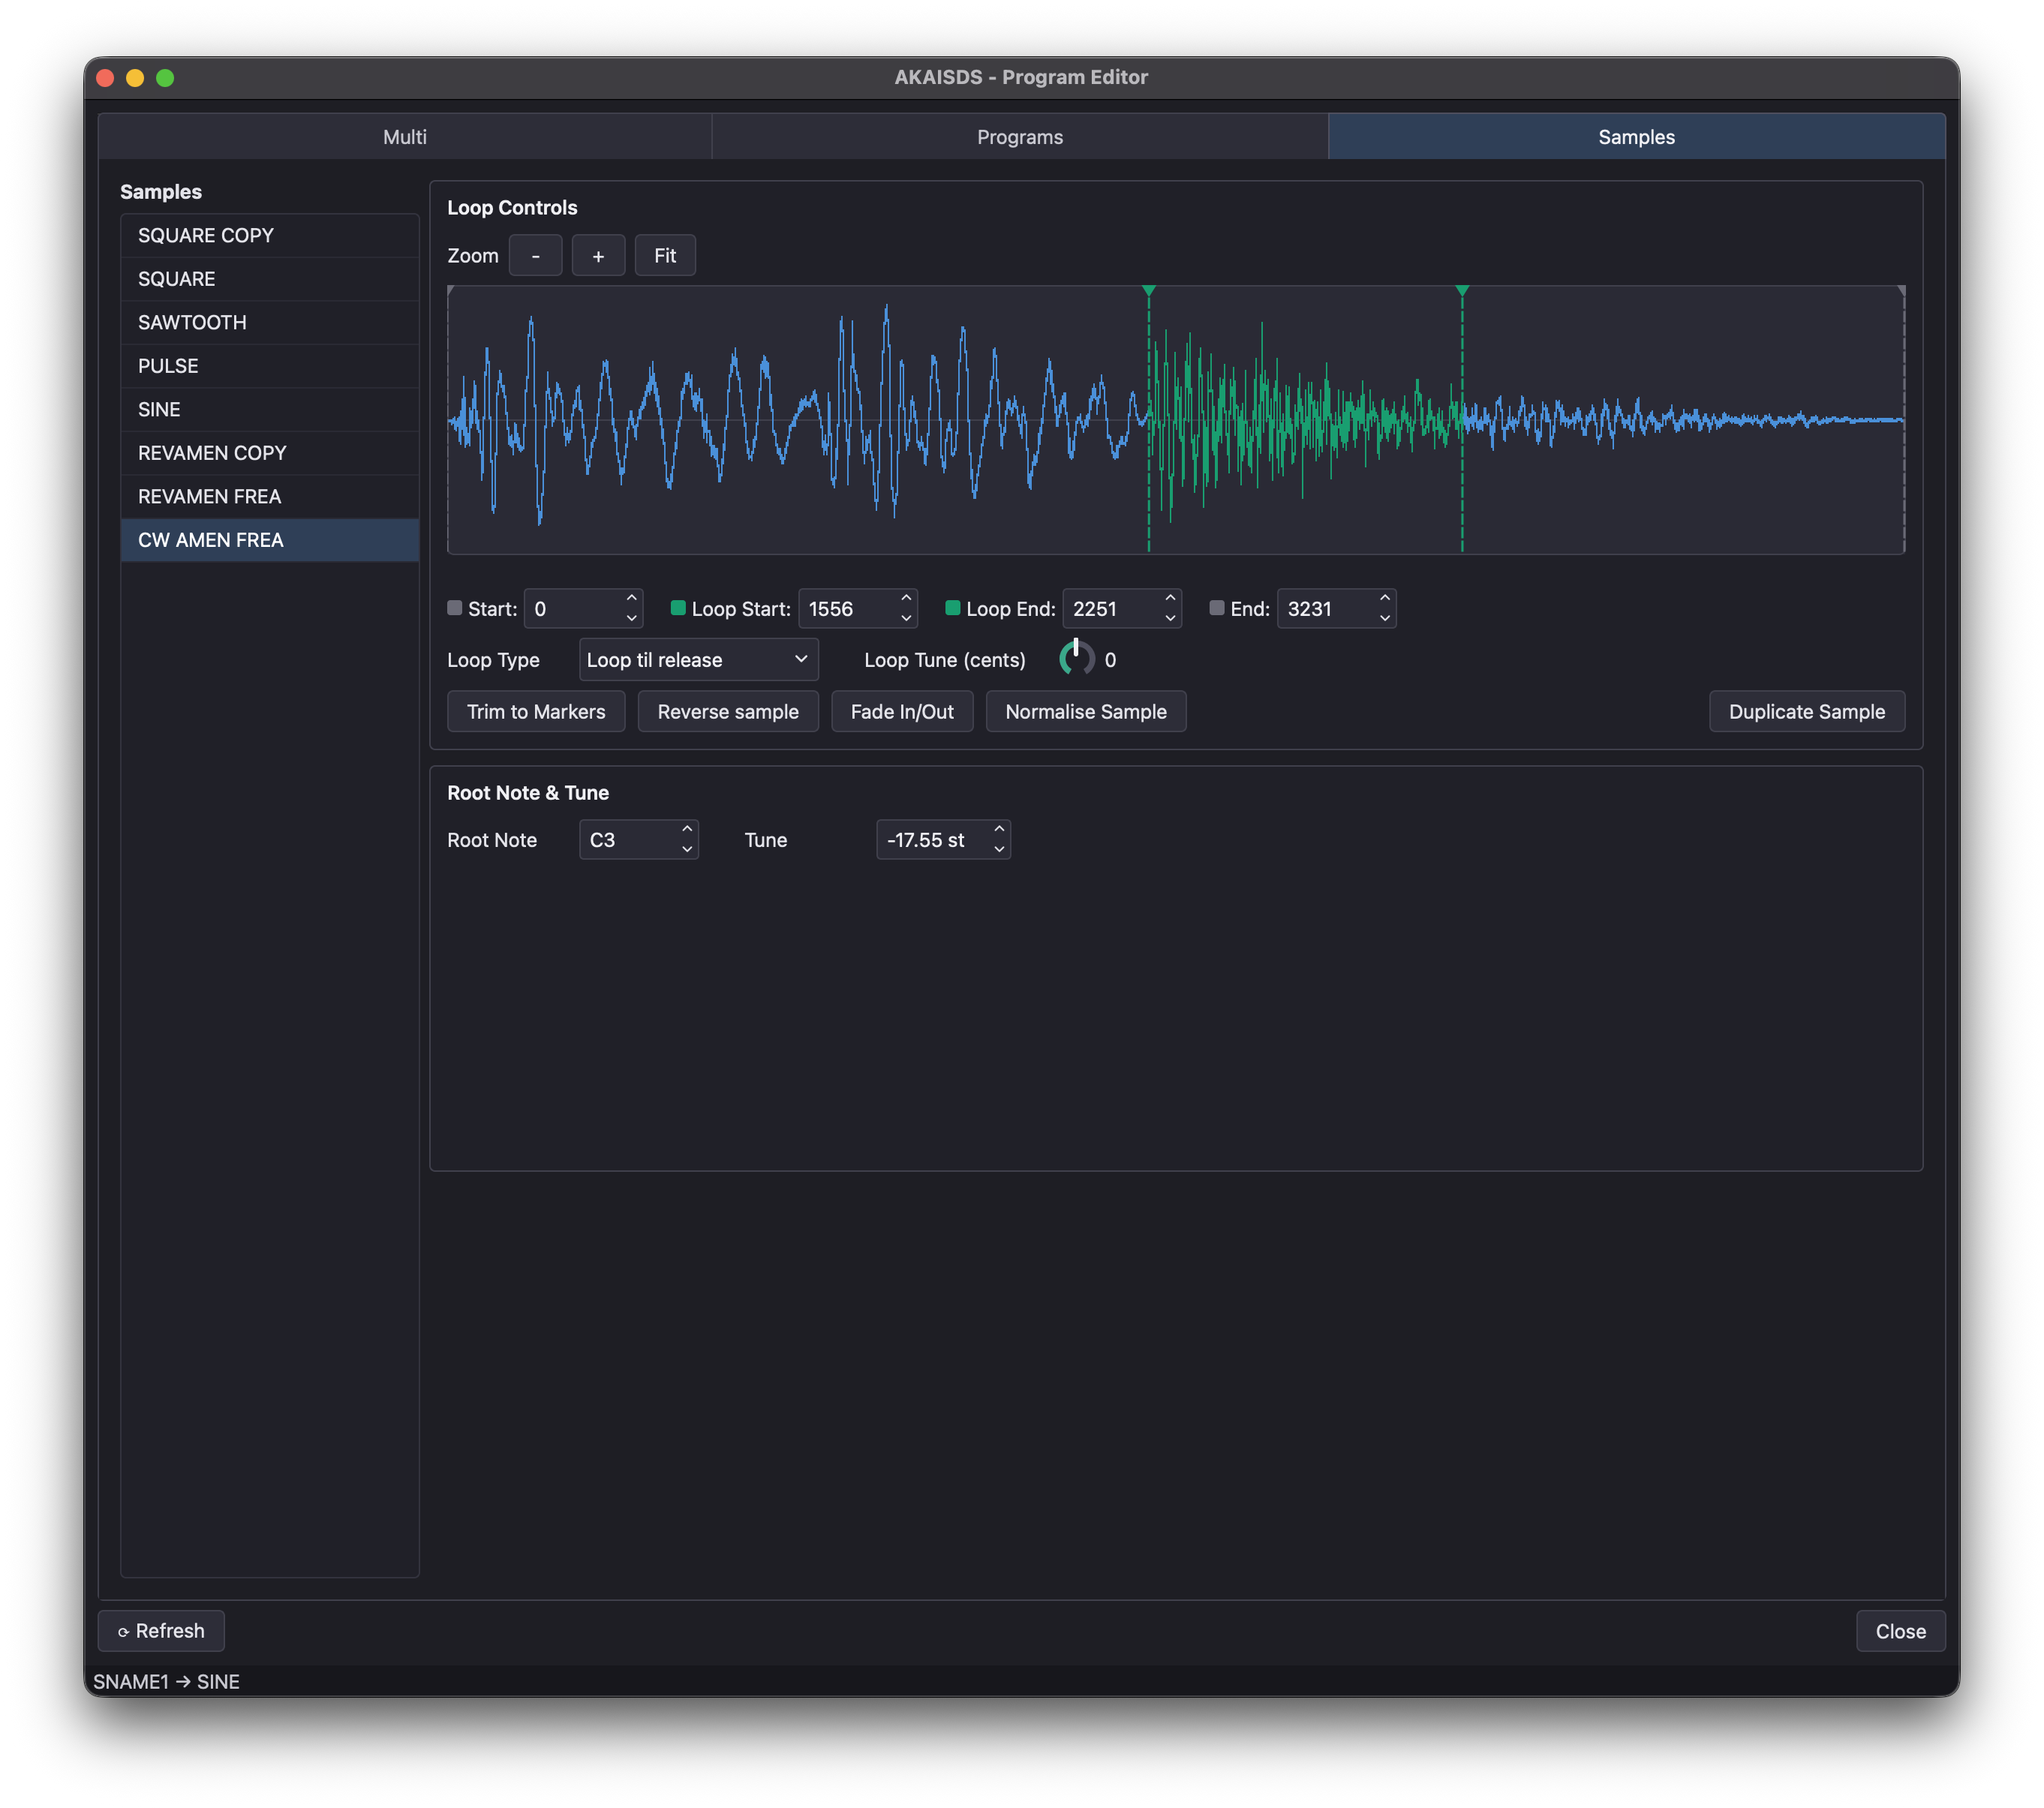
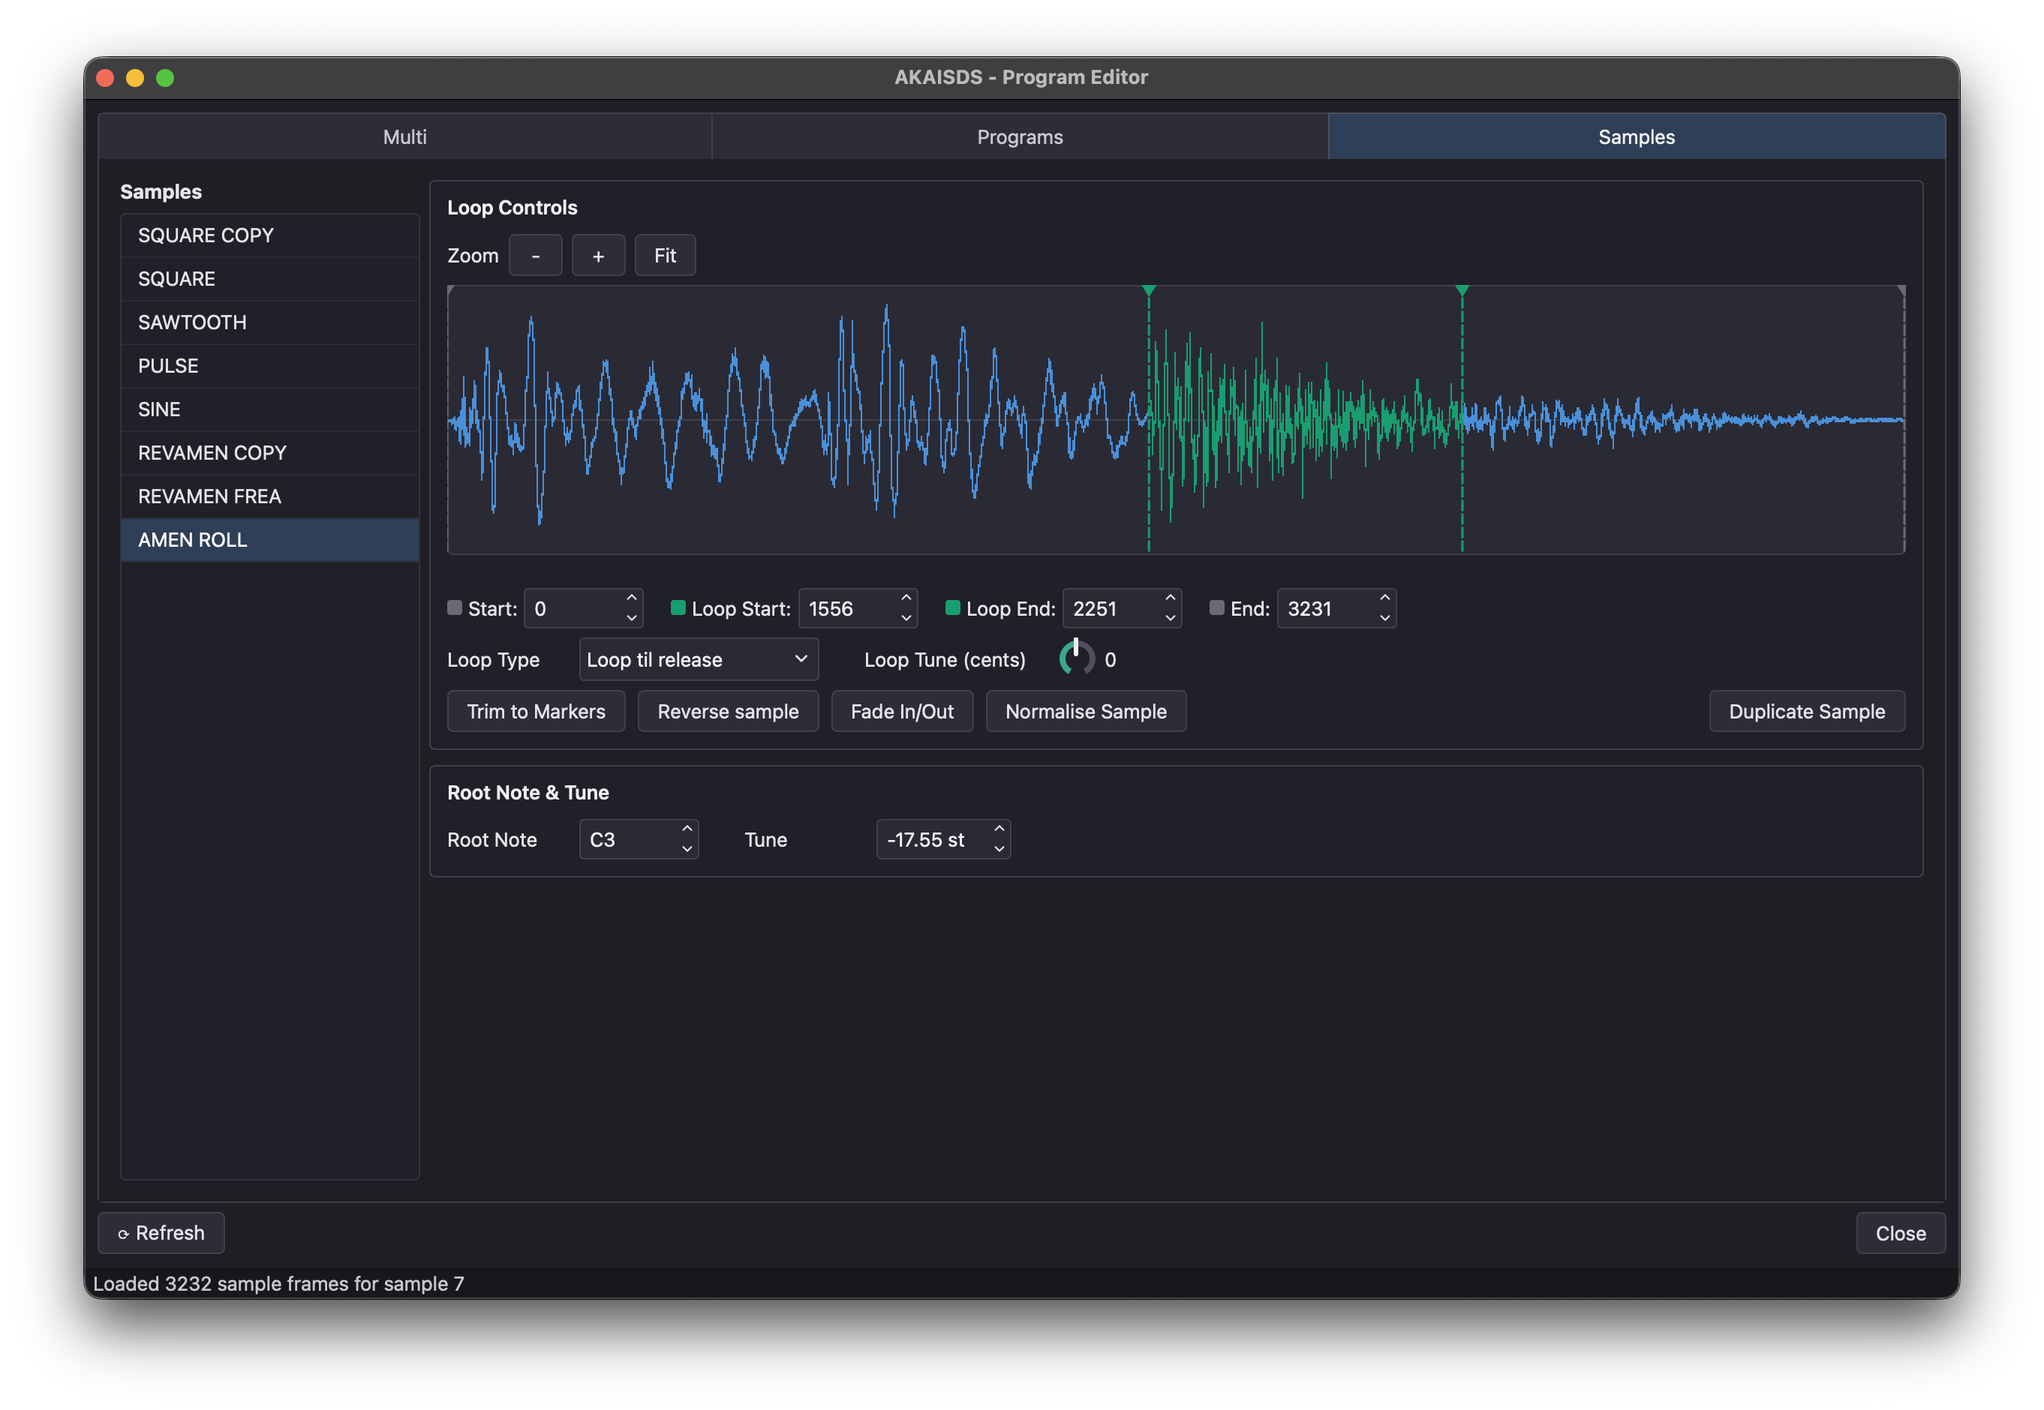
tweaked keyboard shortcuts and section card layout & heights

diff --git a/src/ui/program_editor_window.py b/src/ui/program_editor_window.py
@@ -1115,6 +1115,14 @@ class ProgramEditorWindow(QMainWindow):
         )
         env2_section = self._build_section_card("Envelope 2", env2_graph_row, env2_grid)
 
+        # matches height, not just width (range_filter_row/envelopes_row's
+        # own 1:1 stretch below already does width) - Range/Envelope 1 are
+        # each naturally shorter than their paired Filter/Envelope 2, which
+        # reads oddly side by side once cards no longer auto-stretch to
+        # fill the row (see _build_section_card's own Fixed-policy comment)
+        self._equalize_card_heights(range_section, filter_section)
+        self._equalize_card_heights(env1_section, env2_section)
+
         # Range is a single short row and Filter is comparable in height -
         # side by side halves the vertical space these two cost together.
         # Same idea for the two envelope cards, which were side by side
@@ -1689,6 +1697,12 @@ class ProgramEditorWindow(QMainWindow):
         lfo2_row.addLayout(lfo2_shape_sync_column)
         lfo2_row.addStretch()
         lfo2_section = self._build_section_card("LFO2", lfo2_row)
+        # same reasoning as Range/Filter and Envelope 1/2 on the Keygroup
+        # tab - see _equalize_card_heights' own comment. Already equal in
+        # practice (LFO1/LFO2 are symmetric), but pin it explicitly rather
+        # than leaving it an accident of current content - a future layout
+        # tweak to just one of the two shouldn't silently throw this off.
+        self._equalize_card_heights(lfo_section, lfo2_section)
 
         # Pitch - tuning offset and pitch-bend range, up and down
         pitch_row = QHBoxLayout()
@@ -1697,6 +1711,9 @@ class ProgramEditorWindow(QMainWindow):
         pitch_row.addLayout(bend_down_column)
         pitch_row.addStretch()
         pitch_section = self._build_section_card("Pitch", pitch_row)
+        # same reasoning as Range/Filter and Envelope 1/2 on the Keygroup
+        # tab - see _equalize_card_heights' own comment
+        self._equalize_card_heights(volume_section, pitch_section)
 
         # Voice & MIDI - how the program responds to incoming MIDI and
         # allocates/steals voices
@@ -1716,6 +1733,9 @@ class ProgramEditorWindow(QMainWindow):
         portamento_row.addLayout(mono_legato_column)
         portamento_row.addStretch()
         portamento_section = self._build_section_card("Portamento", portamento_row)
+        # same reasoning as Range/Filter and Envelope 1/2 on the Keygroup
+        # tab - see _equalize_card_heights' own comment
+        self._equalize_card_heights(voice_section, portamento_section)
 
         # Modulation - the assignable modulation matrix (MODS*/MODV*
         # fields). Every destination's SOURCE choice is a program-wide
@@ -1978,21 +1998,45 @@ class ProgramEditorWindow(QMainWindow):
         # only one of {dashboard, program editor} is ever open at a time -
         # two simultaneous MIDI connections to the hardware is untested and
         # may not be safe - mirrors the dashboard's own "&Window" menu
-        # (main_window.py) so the same Ctrl+1/Ctrl+2 shortcuts work no
-        # matter which window currently has focus
+        # (main_window.py) so the same Ctrl+T/Ctrl+E shortcuts work no
+        # matter which window currently has focus. Ctrl+1/2/3 are this
+        # window's own tab shortcuts (below), not window-switching ones -
+        # numbering the two schemes independently rather than trying to
+        # share one 1/2/3/4 sequence across both windows.
         window_menu = self.menuBar().addMenu("&Window")
 
         dashboard_action = QAction("Transfer Dashboard", self)
-        dashboard_action.setShortcut("Ctrl+1")
+        dashboard_action.setShortcut("Ctrl+T")
         # closing (rather than hiding outright) reuses closeEvent()'s
         # existing "show the main window again" cleanup below
         dashboard_action.triggered.connect(self.close)
         window_menu.addAction(dashboard_action)
 
         editor_action = QAction("Program Editor", self)
-        editor_action.setShortcut("Ctrl+2")
+        editor_action.setShortcut("Ctrl+E")
         editor_action.setEnabled(False)  # this window IS the program editor
         window_menu.addAction(editor_action)
+
+        window_menu.addSeparator()
+
+        multi_tab_action = QAction("Multi Tab", self)
+        multi_tab_action.setShortcut("Ctrl+1")
+        multi_tab_action.triggered.connect(lambda: self.main_tabs.setCurrentIndex(0))
+        window_menu.addAction(multi_tab_action)
+
+        programs_tab_action = QAction("Programs Tab", self)
+        programs_tab_action.setShortcut("Ctrl+2")
+        programs_tab_action.triggered.connect(
+            lambda: self.main_tabs.setCurrentIndex(1)
+        )
+        window_menu.addAction(programs_tab_action)
+
+        samples_tab_action = QAction("Samples Tab", self)
+        samples_tab_action.setShortcut("Ctrl+3")
+        samples_tab_action.triggered.connect(
+            lambda: self.main_tabs.setCurrentIndex(self._samples_tab_index)
+        )
+        window_menu.addAction(samples_tab_action)
 
         # Qt has no MenuRole for "check for updates" (only About/Preferences/
         # Quit get auto-relocated into the native app menu on macOS - see
@@ -3622,7 +3666,40 @@ class ProgramEditorWindow(QMainWindow):
         card = QWidget()
         card.setObjectName("sectionCard")
         card.setLayout(section_layout)
+        # a bare QWidget defaults to Preferred vertically, which CAN grow
+        # past its own sizeHint when the surrounding layout has surplus
+        # space to hand out - normally a trailing addStretch() (see e.g.
+        # program_page_layout) is enough to claim that surplus instead,
+        # but addStretch()'s own default stretch factor (0) doesn't
+        # actually outrank a sibling Preferred-policy widget's willingness
+        # to grow (both are stretch 0), so Qt's layout can still split the
+        # extra space across the CARDS themselves rather than routing all
+        # of it into the stretch at the end - visible as every card
+        # growing taller (and its own internal addStretch() padding out
+        # further) as the window grows, on every tab. Fixed vertically
+        # pins each card to its sizeHint - can't grow OR compress below it
+        # (the latter is what caused cards to visibly overlap during
+        # development - see this file's own "section cards" notes) -
+        # regardless of how any particular tab's surrounding layout
+        # resolves its own stretch distribution.
+        card.setSizePolicy(QSizePolicy.Policy.Preferred, QSizePolicy.Policy.Fixed)
         return card
+
+    def _equalize_card_heights(self, *cards):
+        # pairs like Range+Filter or the two Envelope cards read oddly
+        # when one is visibly taller than its neighbor sitting right next
+        # to it - now that _build_section_card pins every card to its OWN
+        # sizeHint (see its own comment), nothing does that matching
+        # automatically the way the horizontal 1:1 stretch on their shared
+        # row already equalizes WIDTH. setFixedHeight (not just a min/max)
+        # since these cards' own vertical policy is already Fixed - this
+        # is that same fixed value, just the larger of the two rather than
+        # each one's own independently measured sizeHint. Call this after
+        # every row/widget has already been added to each card, since
+        # sizeHint() needs the real final content to measure correctly.
+        target_height = max(card.sizeHint().height() for card in cards)
+        for card in cards:
+            card.setFixedHeight(target_height)
 
     def _build_scroll_area(self, page):
         # both detail_stack pages (Program, Keygroup) are wrapped in one of

diff --git a/src/ui/main_window.py b/src/ui/main_window.py
@@ -139,12 +139,12 @@ class ApplicationWindow(QMainWindow):
         window_menu = self.menuBar().addMenu("&Window")
 
         dashboard_action = QAction("Transfer Dashboard", self)
-        dashboard_action.setShortcut("Ctrl+1")
+        dashboard_action.setShortcut("Ctrl+T")
         dashboard_action.setEnabled(False)  # this window IS the dashboard
         window_menu.addAction(dashboard_action)
 
         editor_action = QAction("Program Editor", self)
-        editor_action.setShortcut("Ctrl+2")
+        editor_action.setShortcut("Ctrl+E")
         editor_action.triggered.connect(self.dashboard_view.open_program_editor)
         window_menu.addAction(editor_action)
 

diff --git a/AGENTS.md b/AGENTS.md
@@ -168,6 +168,16 @@ before assuming the spacing value is wrong.
 `ApplicationWindow` (which reads/writes the user's real
 `~/.akaisds/config.json`).
 
+**Window/tab shortcuts** (added 2026-09-23): `Ctrl+T` (⌘T on macOS)
+switches to the Transfer Dashboard, `Ctrl+E` opens/switches to the
+Program Editor - both live in each window's own `&Window` menu, mirrored
+so the same shortcut works regardless of which window has focus (see
+`main_window.py`/`program_editor_window.py`'s own comments). `Ctrl+1/2/3`
+used to be the window-switch shortcuts but are now the Program Editor's
+OWN tab shortcuts instead (Multi/Programs/Samples) - the two numbering
+schemes are independent, not a shared 1/2/3/4 sequence across both
+windows, so don't assume `Ctrl+1` means the same thing in both places.
+
 ## Transfer Dashboard: dropped/opened files get a stable local copy
 
 Added 2026-09-23. Dragging a "cropped" region out of a sample browser
@@ -261,6 +271,37 @@ This page's `setMinimumSize(...)` was tuned by hand, not a round number:
 - `_build_section_card`'s layout ends with `addStretch()` - without it, a
   card shorter than its row partner gets slack space split before the
   header too (reads as vertically centered instead of top-aligned).
+- **Cards used to grow taller than their content when the window grew
+  vertically** (found 2026-09-23, on the Program tab specifically but not
+  reliably reproducible on the others at every window size - the
+  underlying cause applies everywhere, though). A bare `QWidget`'s
+  default vertical size policy is `Preferred`, which CAN grow past its
+  own `sizeHint()` when a layout has surplus space - a trailing
+  `addStretch()` (both inside `_build_section_card` and in each tab's own
+  outer page layout) is supposed to claim that surplus instead, but
+  `addStretch()`'s own default stretch factor is 0, same as every
+  sibling widget's - it doesn't actually outrank them, so Qt's layout
+  could still split the extra space across the cards themselves rather
+  than routing all of it into the stretch. Fixed by giving every card
+  `setSizePolicy(Preferred, Fixed)` vertically in `_build_section_card` -
+  pins each one to its `sizeHint()`, can't grow OR compress below it
+  (compressing below `sizeHint()` is the earlier, already-documented
+  overlap bug above) - rather than relying on winning a stretch-factor
+  tie against its own siblings.
+- **Paired cards' heights are pinned equal, not just their widths.**
+  Once cards stopped auto-stretching (above), a pair whose content
+  naturally differs in size - Range/Filter, Envelope 1/Envelope 2,
+  Volume Pan & Velocity/Pitch, LFO1/LFO2, Voice & MIDI/Portamento - reads
+  oddly side by side with one visibly taller than the other.
+  `_equalize_card_heights(*cards)` (right after `_build_section_card`)
+  takes `max(card.sizeHint().height() for card in cards)` and
+  `setFixedHeight`s every one of them to it, called once per pair right
+  after both are built (needs their real final content to measure
+  sizeHint() correctly). LFO1/LFO2 happen to already match today, but are
+  still equalized explicitly rather than left as an accident of current
+  content - add a control to just one side later and it'd otherwise throw
+  the two out of sync silently. If you add a new paired row, call this
+  for it too rather than assuming matching content sizes will coincide.
 
 `BridgeWorker.busy_changed` drives the indeterminate progress bar next to
 Refresh - `True` from the moment any job queues while nothing else is
